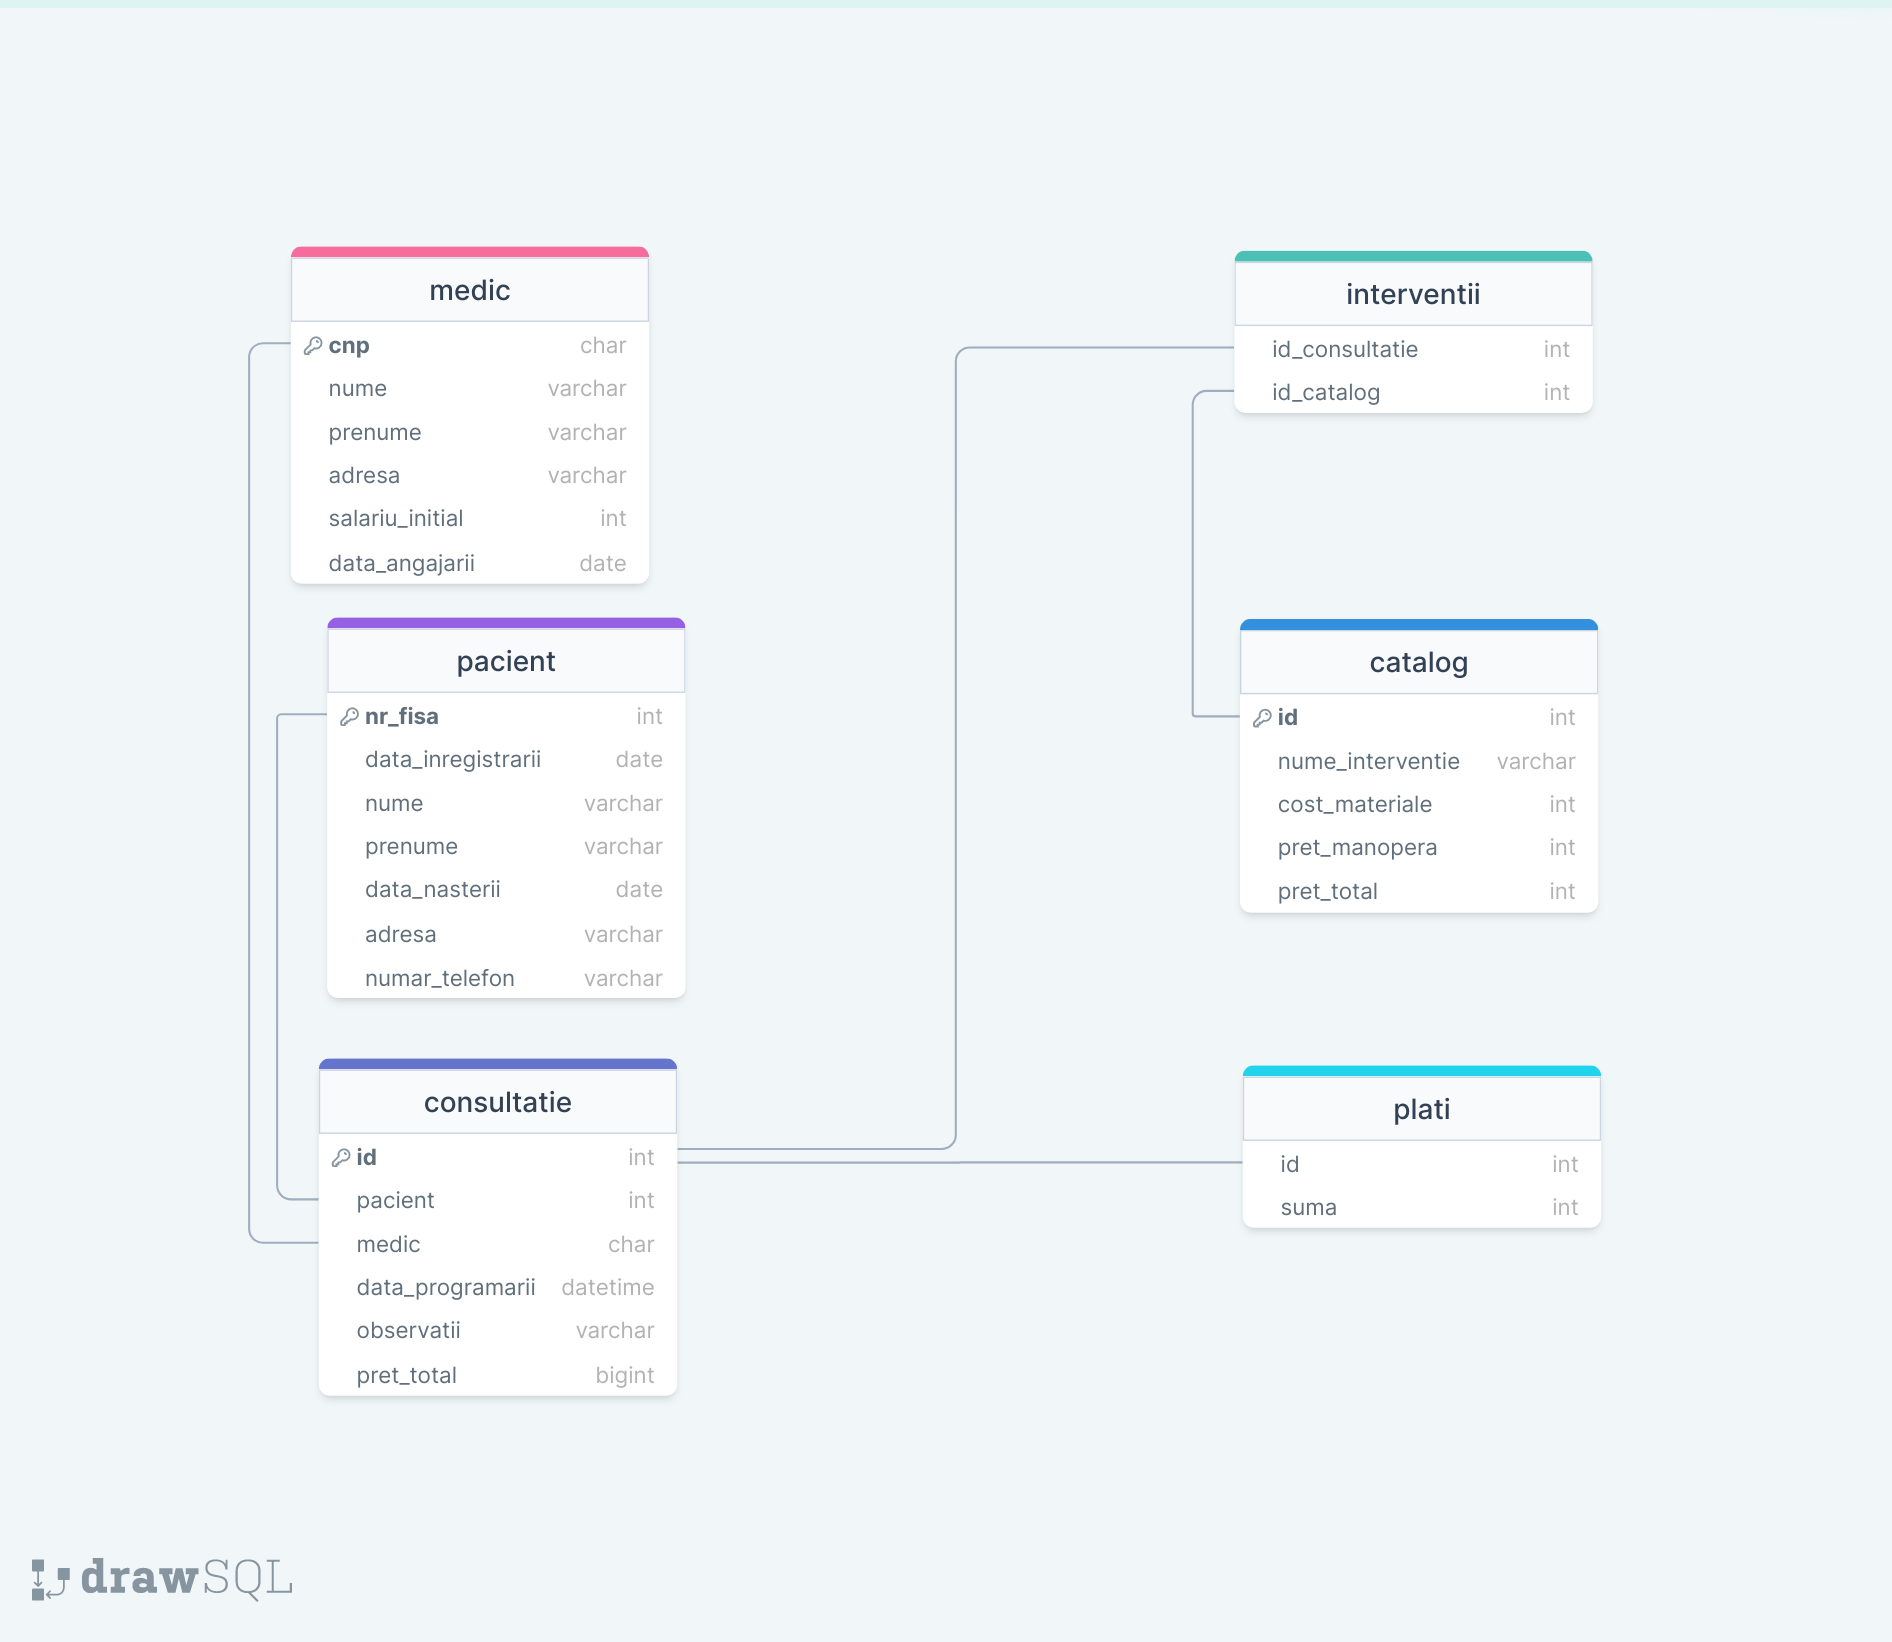
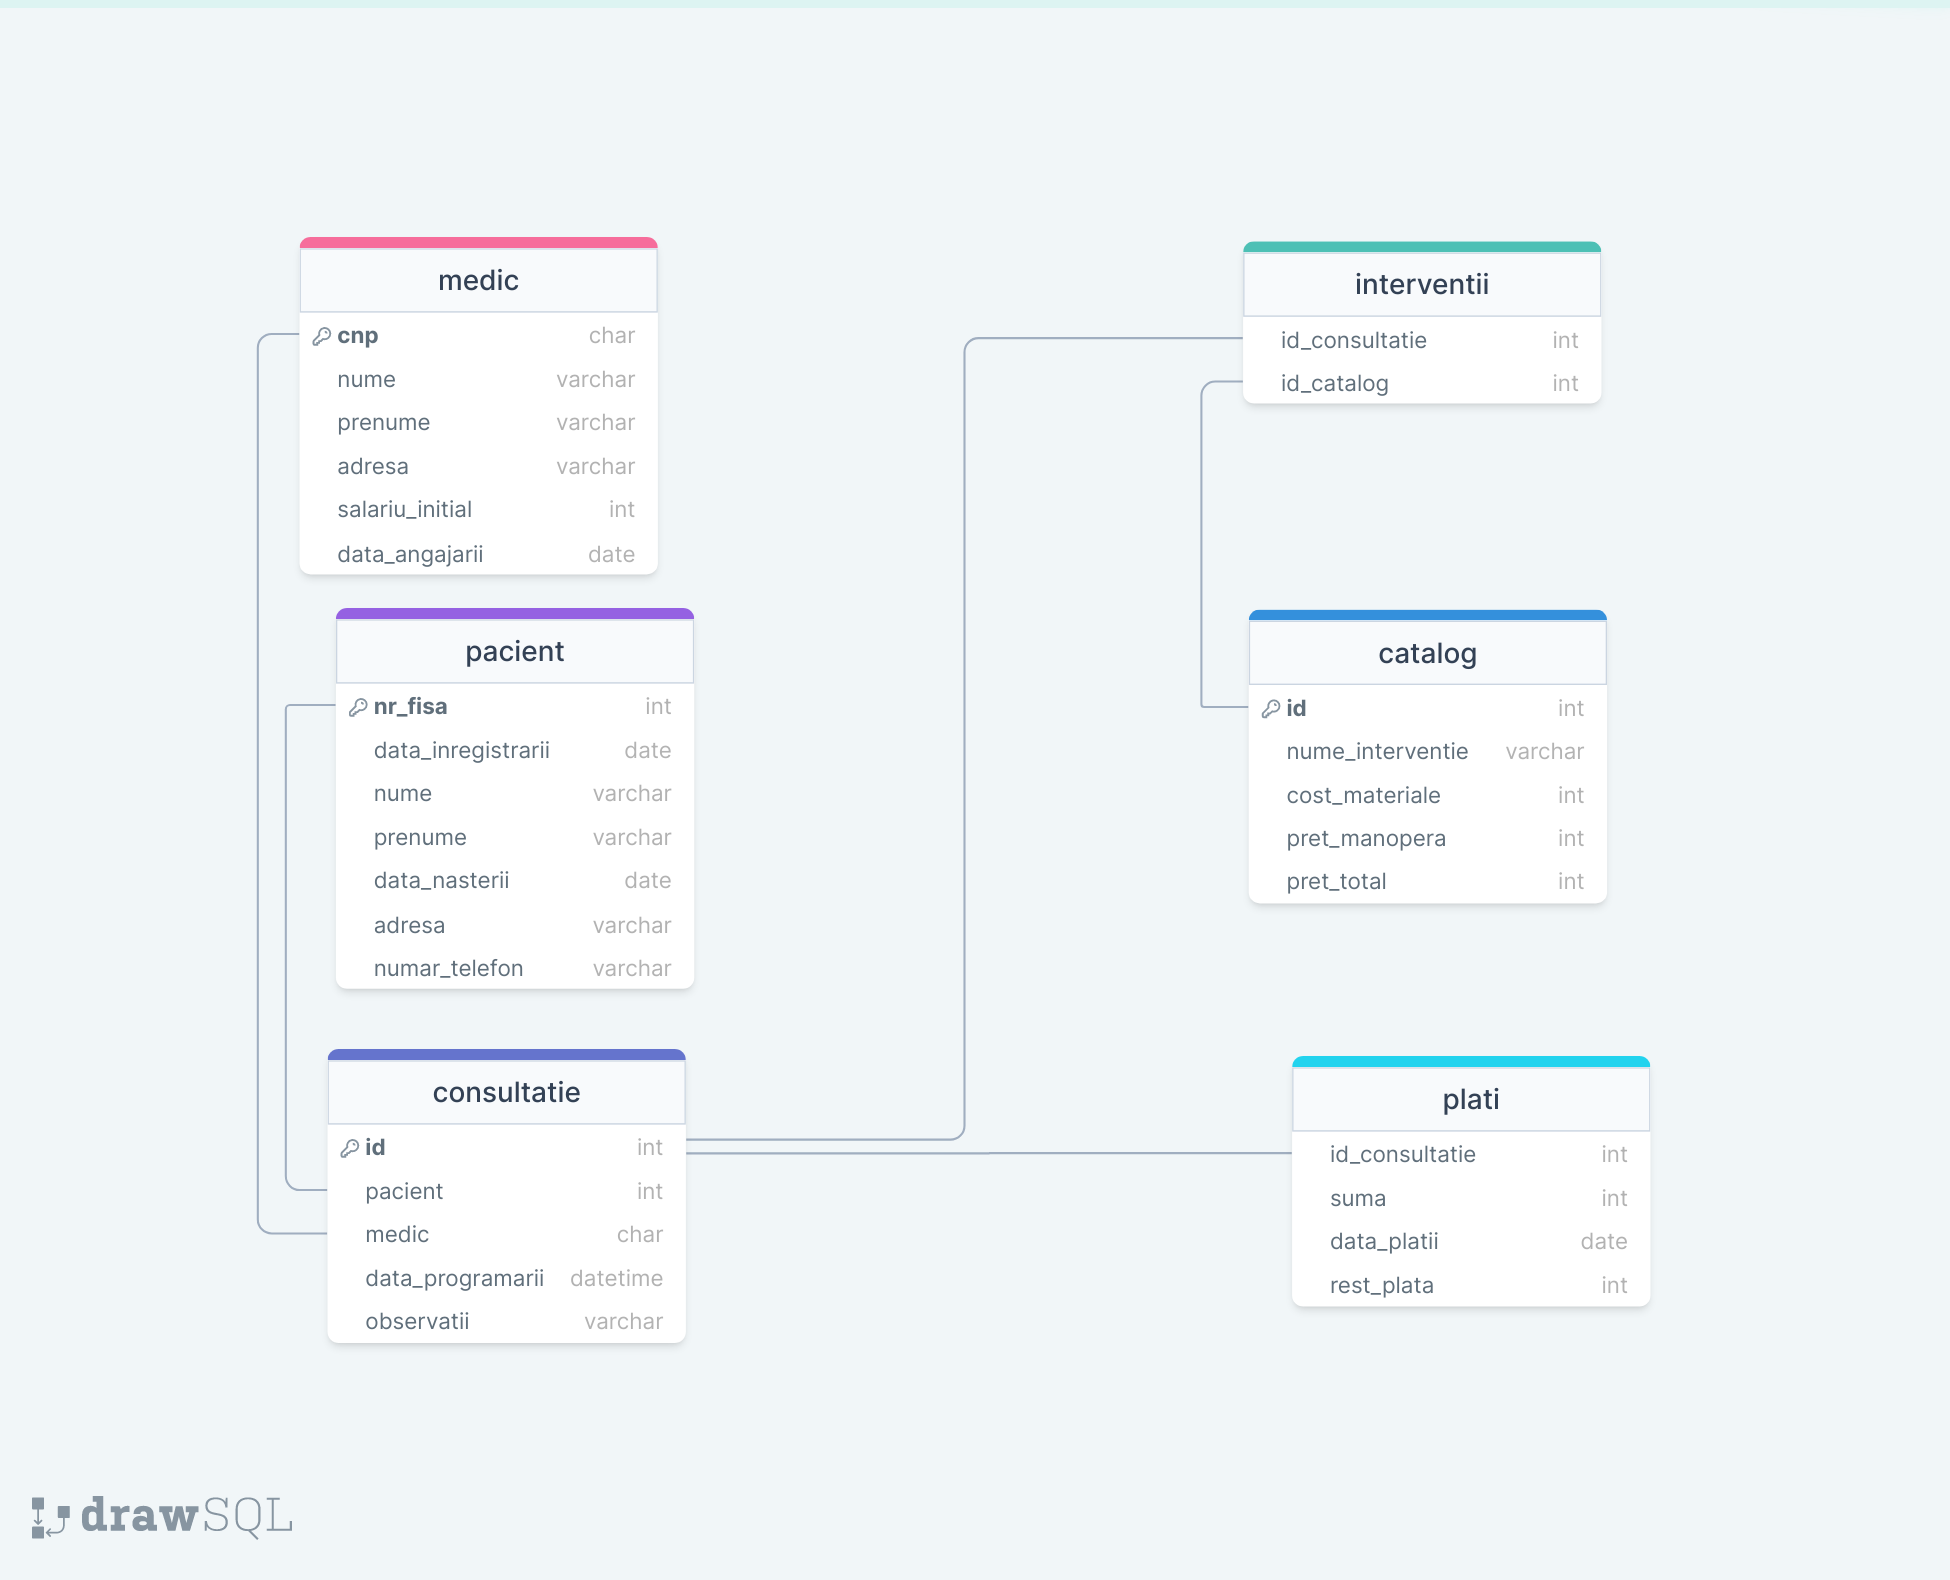
add plati

diff --git a/php/plata_code.php b/php/plata_code.php
@@ -1,0 +1,78 @@
+<?php
+include($_SERVER['DOCUMENT_ROOT'] . '/medapp/inc/db.php');
+
+//variabile
+$db_table = "plati";
+$suma = $rest_plata = null;
+$rezultatInsert = null;
+$insertErr = null;
+
+//salvare ID interventie in sesiune (va fi folosita pentru preturi)
+if($pag = 'plati.php') {
+    if(isset($_GET['id']) && intval($_GET['id'])) {
+        $_SESSION['idCons'] = $_GET['id'];
+    }
+}
+
+//sql select pentru afisare date in tabela din pagina Consultatii
+$select = "SELECT plati.suma, plati.data_platii, plati.rest_plata
+            FROM plati 
+            LEFT JOIN consultatie ON consultatie.id = plati.id_consultatie
+            WHERE consultatie.id = " . $_SESSION['idCons'];
+$rezultatSelect = mysqli_query($conn, $select);
+
+//select rest de plata
+$selectRest = "SELECT MIN(rest_plata) AS cacat FROM plati WHERE id_consultatie = " . $_SESSION['idCons'];
+$rezultatRest = mysqli_query($conn, $selectRest);
+$rest_plata = mysqli_fetch_column($rezultatRest, 0);
+
+function getPretConsultatie($b) {
+    global $conn;
+    //sql select pentru pretul consultatiei (suma tuturor interventiilor efectuate)
+    $selectPret = "SELECT SUM(catalog.pret_total) AS pret_consultatie 
+                    FROM interventii 
+                    LEFT JOIN catalog ON interventii.id_catalog = catalog.id
+                    WHERE interventii.id_consultatie = " . $_SESSION['idCons'];
+    $rezultatPret = mysqli_query($conn, $selectPret);
+    $p = mysqli_fetch_column($rezultatPret, 0);
+
+    return $p - $b;
+}
+
+//verificam intai daca sunt date trimise din formularul Consultatie (consultatie_form.php)
+//iar apoi verificam fiecare input in parte daca a fost completat
+if(isset($_POST['submit'])) {
+    if(!empty($_POST['suma'])) {
+        $suma = filter_input(INPUT_POST, 'suma', FILTER_SANITIZE_NUMBER_INT);
+    }
+
+    if(!empty($_POST['data'])) {
+        $data = filter_input(INPUT_POST, 'data', FILTER_SANITIZE_NUMBER_INT);
+    }
+
+    if(!is_null($suma) && !is_null($data)) {
+        if(!is_null($rest_plata)) {
+            $val = $rest_plata - $suma;
+            $x = $rest_plata;
+        } else {
+            $val = getPretConsultatie($suma);
+            $x = getPretConsultatie(0);
+        }
+
+        if($val < 0) {
+            $insertErr = "Suma maxima platibila este " . $x;
+        } else {
+            $insert = "INSERT INTO $db_table 
+                        SET suma = '$suma', data_platii = '$data', rest_plata = '$val', id_consultatie = '" . $_SESSION['idCons'] . "'";
+            $rezultatInsert = mysqli_query($conn, $insert);
+        }
+
+    }
+
+    //dupa inserare revenim in pagina de afisare
+    if ($rezultatInsert) {
+        header('Location: ../display/plati.php');
+    }
+}
+
+?>

diff --git a/display/plati.php b/display/plati.php
@@ -1,5 +1,45 @@
-<?php include($_SERVER['DOCUMENT_ROOT'] . '/medapp/inc/header.php'); ?>
+<?php 
+    include($_SERVER['DOCUMENT_ROOT'] . '/medapp/inc/header.php'); 
+    include($_SERVER['DOCUMENT_ROOT'] . '/medapp/php/plata_code.php');
 
+    //Afisam butonul de adaugare plati doar daca mai avem plati de facut. Daca am achitat tot, nu mai afisam butonul de delete.
+    if($rest_plata > 0 || is_null($rest_plata)) {
+        echo "<a href='../forms/plata_form.php'>
+                <button class='btn btn-primary'>Adaugare</button>
+            </a>"
+        ;
+    }
+?>
 
+<div class="tableFixed mt-3">
+    <table class="table table-hover">
+        <thead class="table-secondary">
+            <tr>
+                <th scope="col">Suma Platita</th>
+                <th scope="col">Data Platii</th>
+                <th scope="col">Rest de Plata</th>
+            </tr>
+        </thead>
+
+        <tbody>
+            <?php
+                if($rezultatSelect) {
+                    while($rand = mysqli_fetch_assoc($rezultatSelect)) {
+                        $suma = $rand['suma'];
+                        $data = $rand['data_platii'];
+                        $rest = $rand['rest_plata'];
+
+                        echo "<tr>
+                                <td>$suma</td> 
+                                <td>$data</td> 
+                                <td>$rest</td>
+                            </tr>"
+                        ;
+                    }
+                }
+            ?>
+        </tbody>
+    </table>
+</div>
 
 <?php include($_SERVER['DOCUMENT_ROOT'] . '/medapp/inc/footer.php'); ?>

diff --git a/forms/plata_form.php b/forms/plata_form.php
@@ -1,0 +1,28 @@
+<?php
+include($_SERVER['DOCUMENT_ROOT'] . '/medapp/inc/header.php');
+include($_SERVER['DOCUMENT_ROOT'] . '/medapp/php/plata_code.php');
+?>
+
+<!-- Formular introducere sau editare programari -->
+<form action='<?php echo "http://$_SERVER[HTTP_HOST]$_SERVER[REQUEST_URI]"; ?>' class="was-validated" method='post'>
+    <div class="form-floating mb-3">
+        <input type="number" class="form-control is-invalid" name="suma" placeholder="suma platita" required>
+        <label for="suma" class="form-label">Suma Achitata</label>
+        <?php 
+            if(!is_null($insertErr)) {
+                echo "<div class='invalid-feedback'>$insertErr</div>";
+            }
+        ?>
+    </div>
+
+    <div class="form-floating mb-3">
+        <input type="date" class="form-control is-invalid" name="data" placeholder="data platii" required>
+        <label for="data" class="form-label">Suma Achitata</label>
+    </div>
+
+    <div class="mb-3">
+        <button class="btn btn-primary" type="submit" name="submit">Adauga</button>
+    </div>
+</form>
+
+<?php include($_SERVER['DOCUMENT_ROOT'] . '/medapp/inc/footer.php'); ?>

diff --git a/display/consultatii.php b/display/consultatii.php
@@ -43,6 +43,9 @@
                                         <button class='btn btn-success'>Modifica</button></a>
                                     <a href='interventii.php?id=$id'>
                                         <button class='btn btn-primary ms-3'>Interventii</button></a>
+                                    <a href='plati.php?id=$id'>
+                                        <button class='btn btn-danger ms-3'>Plati</button>
+                                    </a>
                                 </td>
                             </tr>"
                         ;

diff --git a/inc/header.php b/inc/header.php
@@ -90,6 +90,9 @@
                         case 'interventie_form.php';
                             echo '<h1>Interventie</h1>';
                             break;
+                        case 'plata_form.php';
+                            echo '<h1>Suma</h1>';
+                            break;
                         default;
                             echo '<h1>' . $pag . '</h1>';
                             break;
